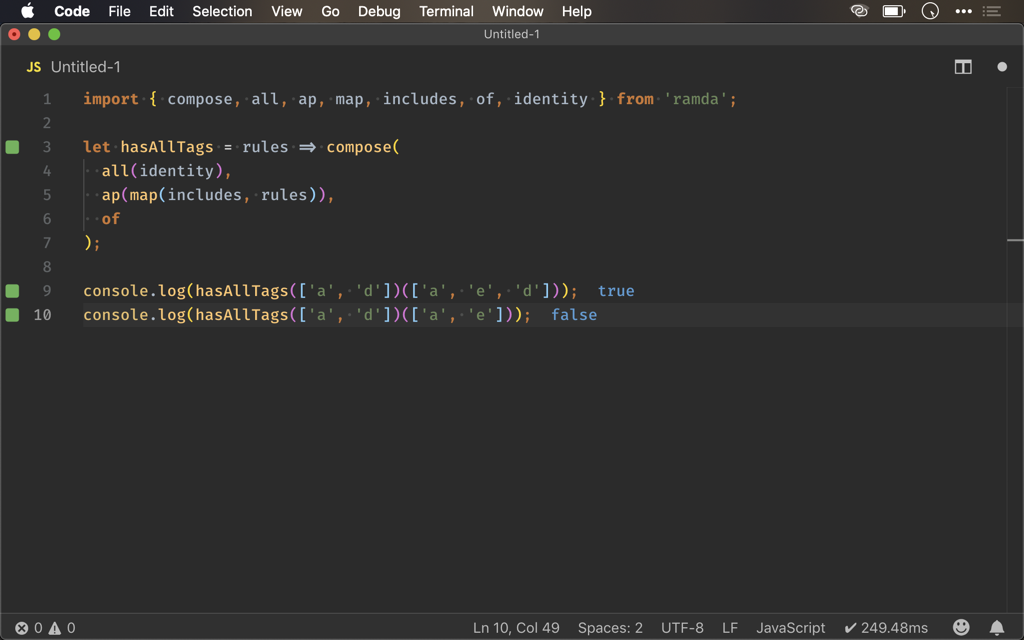
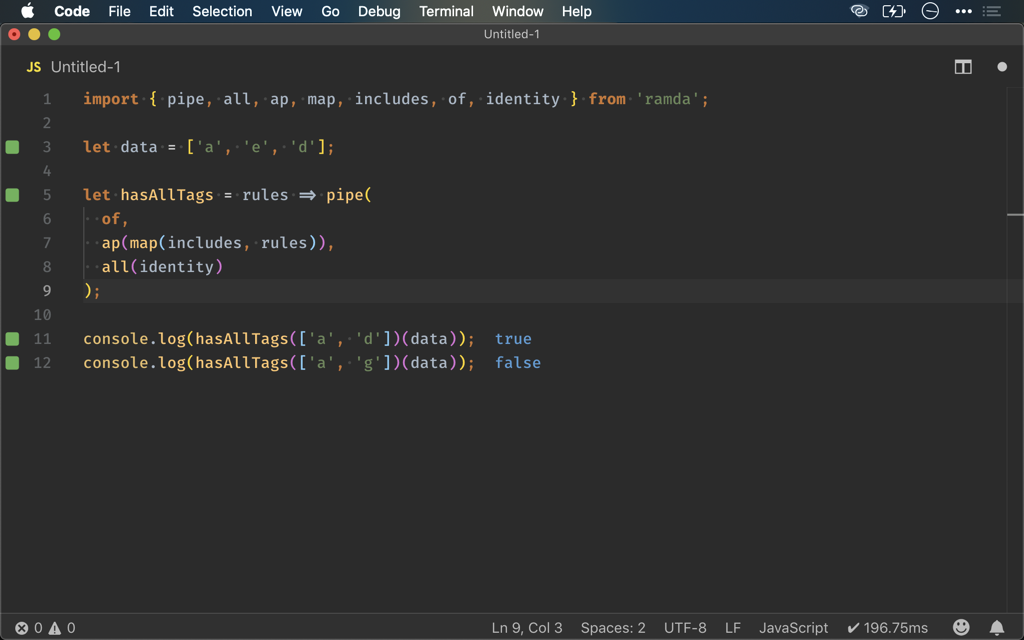
Ramda 之 ap()

diff --git a/source/_posts/ramda/ap.md b/source/_posts/ramda/ap.md
@@ -9,9 +9,9 @@ tags:
   - Ramda/includes
   - Ramda/identity
 feature: images/feature/ramda.png
-date: 2019-03-10 11:23:43
+date: 2019-05-08 11:23:43
 ---
-實務上常遇到一個 Array 中的所有 Function，必須對另外一個 Array 中所有 Data 都執行過一次，此時 Ramda 的 `ap()` 就是我們的好幫手。
+實務上常遇到一個 Array 中所有 Function，必須對另外一個 Array 中所有 Data 都執行過一次，此時 Ramda 的 `ap()` 就是我們的好幫手。
 
 <!-- more -->
 
@@ -24,6 +24,8 @@ Ramda 0.26.1
 ## Imperative
 
 ```javascript
+let data = ['a', 'e', 'd'];
+
 let hasAllTags = (rules, tags) => {
   let result = true;
 
@@ -34,15 +36,15 @@ let hasAllTags = (rules, tags) => {
   return result;
 };
 
-console.log(hasAllTags(['a', 'd'], ['a', 'e', 'd']));
-console.log(hasAllTags(['a', 'd'], ['a', 'e']));
+console.log(hasAllTags(['a', 'd'], data));
+console.log(hasAllTags(['a', 'g'], data));
 ```
 
-條件為 array 的元素必須包含 `a` 與 `d`，若符合條件則回傳 `true`，否則回傳 `false`。
+條件為 array 必須包含所有 element，若符合條件則回傳 `true`，否則回傳 `false`。
 
-若使用 imperative 寫法，會先定義 `result`，預設為 `true`。
+若以 imperative 寫法，會先定義 `result`，預設為 `true`。
 
-由於 `rules` 是 array，因此必須使用 `for` loop 一一檢查傳進來的 array 是否包含了 `rules` 的每個元素，因此使用了 `Array.prototype` 的 `some()` 判斷。
+由於 `rules` 是 array，因此必須使用 `for` loop 一一檢查傳進來的 array 是否包含了 `rules` 的每個元素，因此使用了 `Array.prototype.some()` 判斷。
 
 最後將每個 `result` 判斷 `&&` 起來，回傳結果，這是典型 imperative 作法。
 
@@ -51,16 +53,18 @@ console.log(hasAllTags(['a', 'd'], ['a', 'e']));
 ## ap()
 
 ```javascript
-import { compose, all, ap, map, includes, of, identity } from 'ramda';
+import { pipe, all, ap, map, includes, of, identity } from 'ramda';
 
-let hasAllTags = rules => compose(
-  all(identity),
+let data = ['a', 'e', 'd'];
+
+let hasAllTags = rules => pipe(
+  of,
   ap(map(includes, rules)),
-  of
+  all(identity)
 );
 
-console.log(hasAllTags(['a', 'd'])(['a', 'e', 'd']));
-console.log(hasAllTags(['a', 'd'])(['a', 'e']));
+console.log(hasAllTags(['a', 'd'])(data));
+console.log(hasAllTags(['a', 'g'])(data));
 ```
 
 其實由 imperative 作法，已經可以看出一些端倪：
@@ -85,7 +89,7 @@ map(includes, rules)
 ]
 ```
 
-傳統觀念 `map()` 都是用來產生 data，但由於 Ramda function 都有 currying 特性，也此也可以使用 `map()` 配合其他 function 來達成 function array，真正落實 FP 之 `function as data` 理念。
+傳統觀念 `map()` 都是用來產生 data，但由於 Ramda function 都有 currying 特性，也因此也可使用 `map()` 配合其他 function 來達成 function array，真正落實 FP 之 `function as data` 理念。
 
 ```javascript
 ap(map(includes, rules)),
@@ -97,19 +101,19 @@ ap(map(includes, rules)),
 
 > **ap()**
 > `[a → b] → [a] → [b]`
->Function array 的所有 function 對 data array 的所有元素都執行一次，並將 function 傳回新 array
+>Function array 中所有 function 對 data array 的所有 element 都執行一次，並將 function 結果以 array 傳回
 
-`[a -> b]`：以 function 所構成的的 array
+`[a -> b]`：以 function 所構成的的 function array
 
-`[a]`：要執行 function 的 data，所有元素都會執行 function 一次
+`[a]`：要執行 function 的 data，所有 element 都會執行 function 一次
 
-`[b]`：function 執行的結果，以 array 構成，其個數為 `function 個數 * 元素個數`
+`[b]`：以 array 傳回 function 執行結果，其個數為 `function 個數 * element 個數`
 
 ```javascript
 of
 ```
 
-`ap()` 要的是 `人造` 的 array of data，因次必須再使用 Ramda 的 `of()` 先做加工。
+`ap()` 要的是 `人造` data array，因次必須再使用 Ramda 的 `of()` 先做加工。
 
 > **of()**
 > `a -> [a]`
@@ -119,7 +123,7 @@ of
 all(identity),
 ```
 
-最後再使用 `all()` 對 `ap()` 的結果做判斷，取代原本的 `&&`，由於 `all()` 要求的是 function 而非 value，因此要加上 `identity()`，將 data 轉成 function。
+最後再使用 `all()` 對 `ap()` 結果做判斷，取代原本 `&&`，由於 `all()` 要求的是 function 而非 value，因此要加上 `identity()`，將 data 轉成 function。
 
 > **all()**
 > `{a -> Boolean} -> [a] -> Boolean`
@@ -129,10 +133,9 @@ all(identity),
 
 ## Conclusion
 
-* 若要使用 `for loop` 將一堆 function 對 array data 執行時，可先使用 `map()` 將一堆 function 做成 function array，最後再使用 `ap()` 使每個 function 對 data 都執行
+* 若要使用 `for` loop 將一堆 function 對 array data 執行時，可先使用 `map()` 將一堆 function 做成 function array，最後再使用 `ap()` 使每個 function 對 data 都執行
 
-* `ap()` 在實務上常要搭配 `of()`，產生人造的 array 才能對 function array 加以排列組合執行
-
+* `ap()` 在實務上常要搭配 `of()`，產生人造 array 才能對 function array 加以排列組合執行
 
 ## Reference
 
